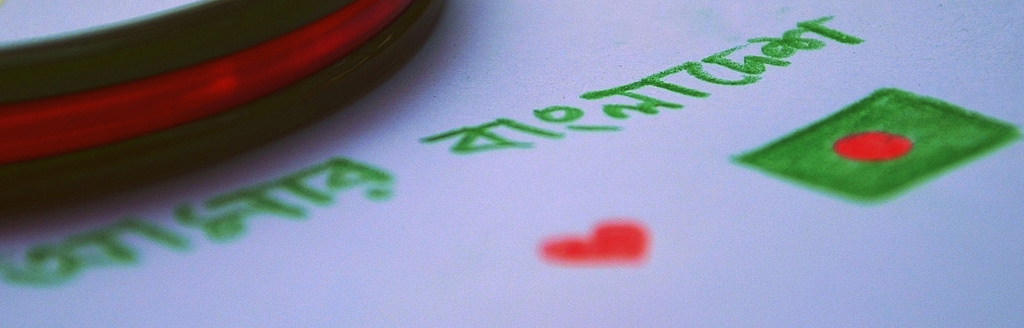
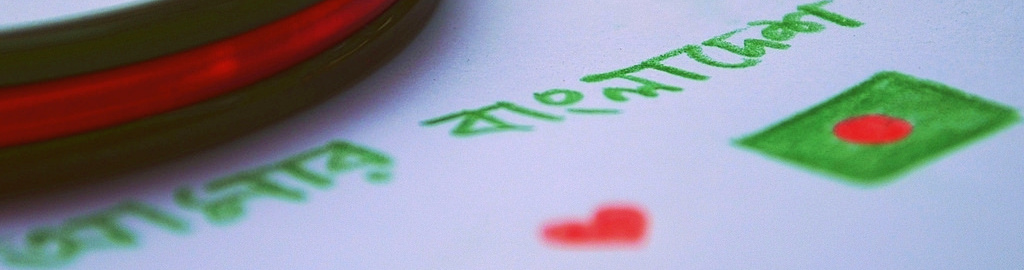
some minor changes to initialization process

diff --git a/src/Tax.js b/src/Tax.js
@@ -1,13 +1,14 @@
+import R from 'ramda'
 import React, { Component } from 'react'
 
 import './Tax.css'
 
 const { fetch } = window
-const calcTax = (rate, amt) => {
+const calcTax = R.curry((rate, amt) => {
   ;[rate, amt] = [Number(rate), Number(amt)]
   const tx = Math.ceil(rate / 6400 * (3 * amt + 3000))
   return Math.min(tx, 500)
-}
+})
 
 class Tax extends Component {
   state = {
@@ -38,7 +39,7 @@ class Tax extends Component {
             Re-calculate
           </button>
         </form>
-        {this.state.show !== null
+        {!R.isNil(this.state.show)
           ? <div className='responsible-table'>
             <table className='table table-striped'>
               <thead>
@@ -48,8 +49,8 @@ class Tax extends Component {
                 </tr>
               </thead>
               <tbody>
-                {Object.entries(this.state.show).map(el => (
-                  <tr key={el[0]}><td>{el[0]}</td><td>{el[1]}</td></tr>
+                {this.state.show.map(([w, t]) => (
+                  <tr key={w}><td>{w}</td><td>{t}</td></tr>
                   ))}
               </tbody>
             </table>
@@ -67,27 +68,27 @@ class Tax extends Component {
     this.getTax()
   }
 
-  getTax = async e => {
+  getTax = async () => {
     const res = await fetch('/record', { credentials: 'same-origin' })
     const data = await res.json()
+    const tax = calcTax(this.state.tax)
 
-    const show = data.reduce(
-      (acc, el) =>
-        Object.assign({}, acc, {
-          [`Ward ${el.ward}`]: calcTax(this.state.tax, el['home-cost']) +
-            acc[`Ward ${el.ward}`]
-        }),
-      {
-        'Ward 1': 0,
-        'Ward 2': 0,
-        'Ward 3': 0,
-        'Ward 4': 0,
-        'Ward 5': 0,
-        'Ward 6': 0,
-        'Ward 7': 0,
-        'Ward 8': 0,
-        'Ward 9': 0
-      }
+    const show = R.toPairs(
+      data.reduce(
+        (acc, { ward, 'home-cost': hc }) =>
+          R.merge(acc, { [`Ward ${ward}`]: tax(hc) + acc[`Ward ${ward}`] }),
+        {
+          'Ward 1': 0,
+          'Ward 2': 0,
+          'Ward 3': 0,
+          'Ward 4': 0,
+          'Ward 5': 0,
+          'Ward 6': 0,
+          'Ward 7': 0,
+          'Ward 8': 0,
+          'Ward 9': 0
+        }
+      )
     )
 
     this.setState({ show })

diff --git a/server.js b/server.js
@@ -172,9 +172,10 @@ app.post('/record', ensureLoggedIn('/'), (req, res) => {
 if (require.main === module) {
   if (IS_DEV) {
     const rimraf = require('rimraf')
-    const res = require('./utils/seed-database')
-
-    if (res.inserted === 1) console.log('Inserted a dummy user into DB')
+    ;(async function () {
+      const res = await require('./utils/seed-database')()
+      if (res.inserted === 1) console.log('Inserted a dummy user into DB')
+    })()
 
     rimraf(path.resolve(__dirname, 'public', 'static'), function (err) {
       if (err) throw err

diff --git a/src/App.css b/src/App.css
@@ -53,7 +53,7 @@ form {
 }
 
 #banner {
-  width: 80%;
-  height: 200px;
-  margin: 5px auto;
+  width: 100%;
+  height: 145px;
+  margin: 10px auto;
 }
